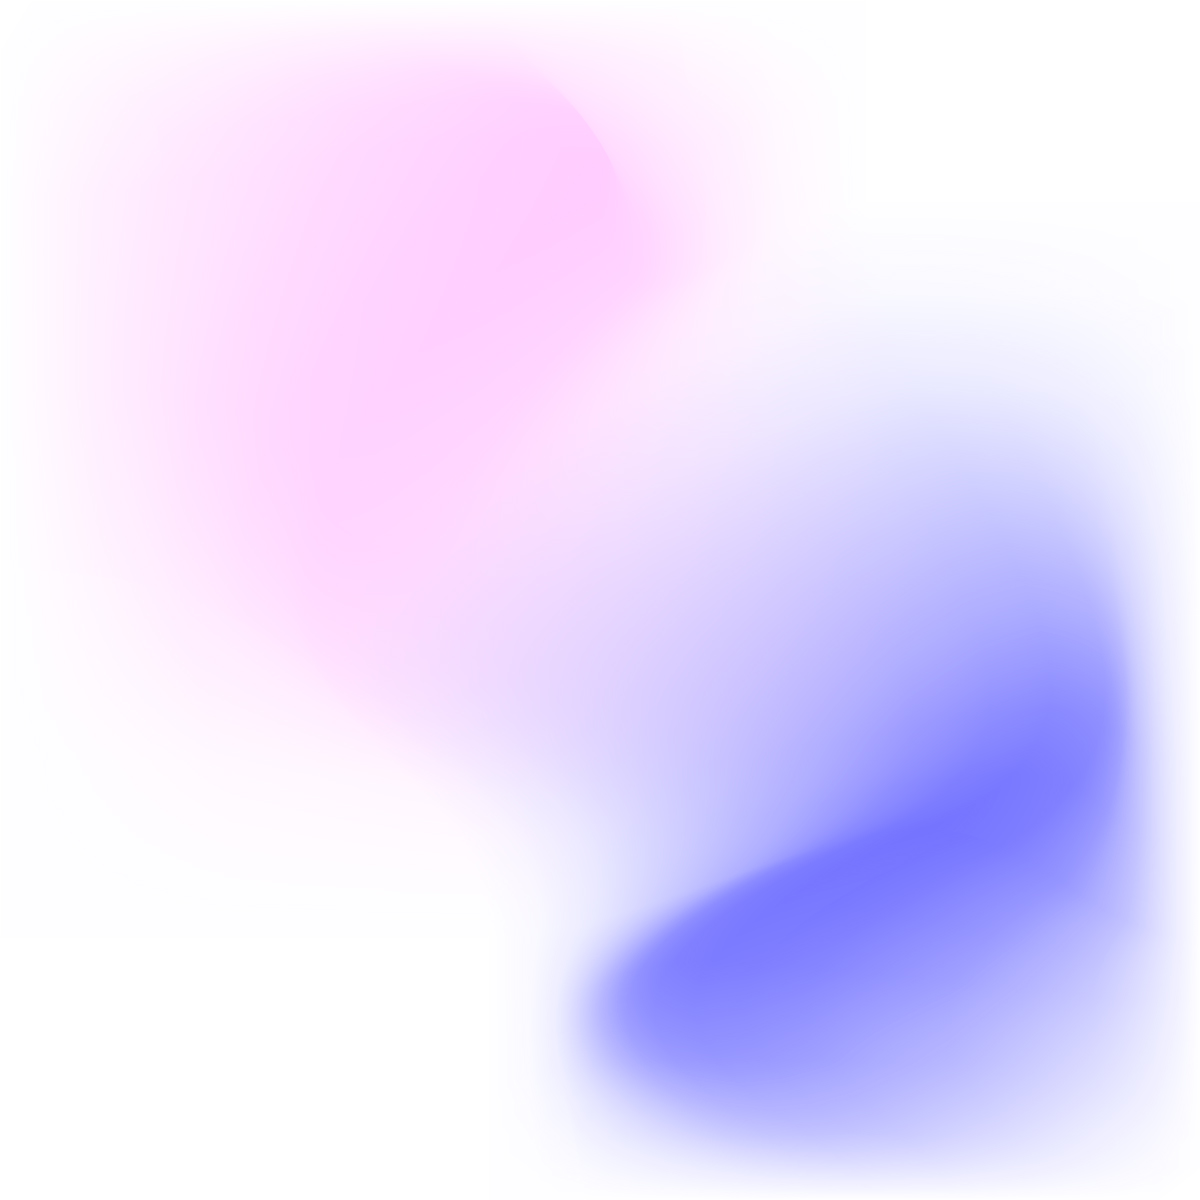
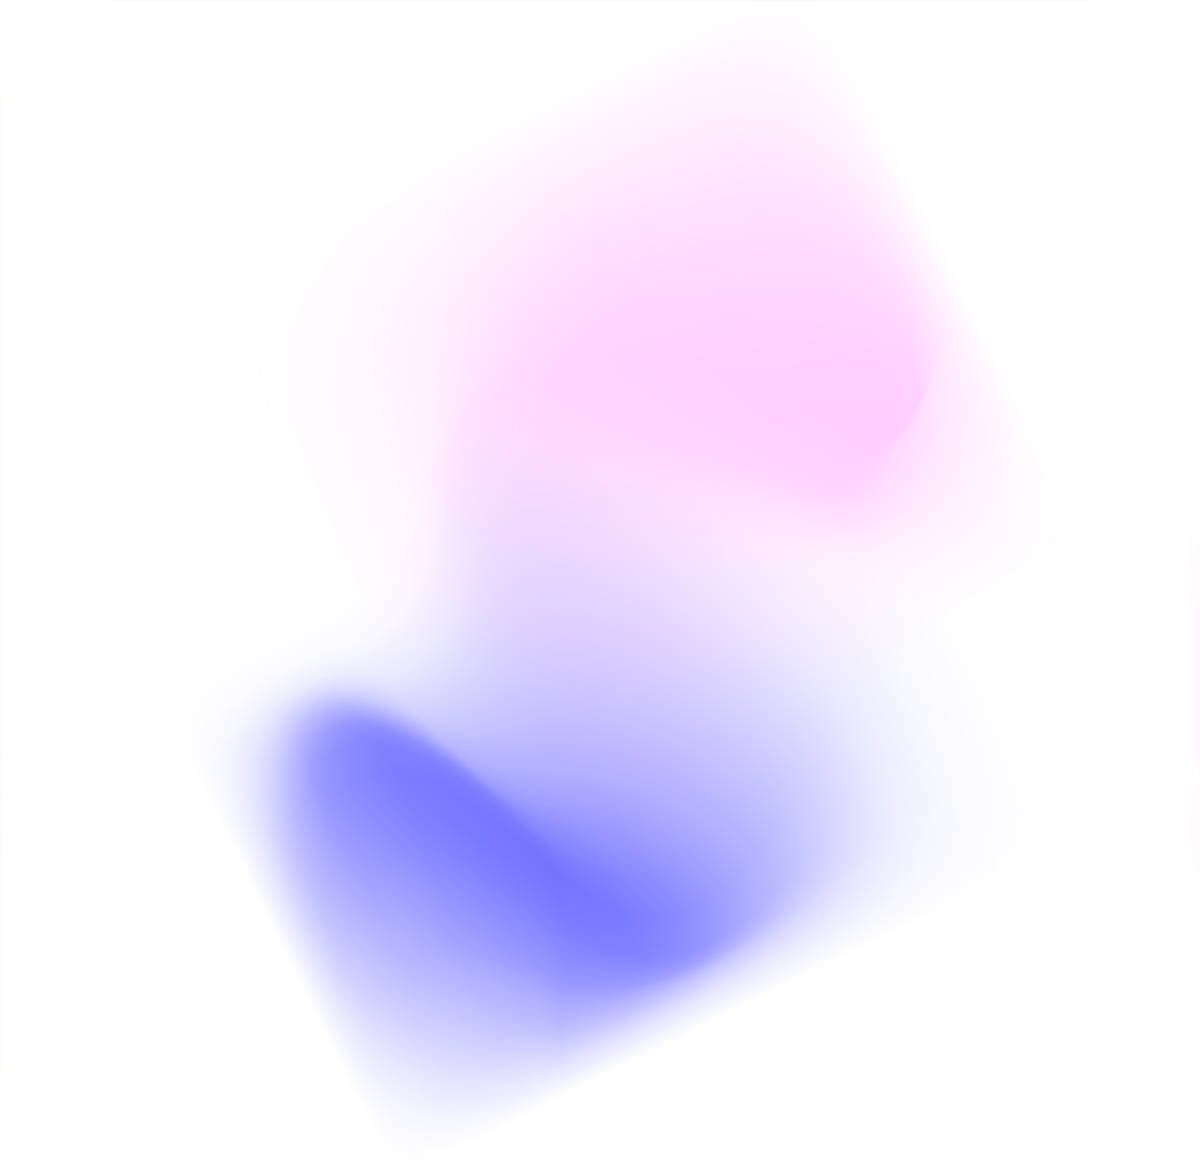
블로그 화면 디자인 수정 중

diff --git a/src/pages/blog/index.tsx b/src/pages/blog/index.tsx
@@ -6,6 +6,8 @@ import { colors } from "styles/colors";
 import LeftContainer from "./LeftContainer";
 import RightContainer from "./RightContainer";
 import blog_bg from "images/blog-bg.jpg";
+import blog_bg2 from "images/blog-bg2.jpg";
+import blog_bg3 from "images/blog-bg3.jpg";
 
 interface BlogScreen {}
 
@@ -13,8 +15,14 @@ export default function BlogScreen() {
   return (
     <S.Body>
       <S.bg>
-        <Image src={blog_bg} width={1000} height={1000} />
+        <Image src={blog_bg} width={800} height={800} />
       </S.bg>
+      <S.bg2>
+        <Image src={blog_bg2} width={400} height={400} />
+      </S.bg2>
+      <S.bg3>
+        <Image src={blog_bg3} width={400} height={400} />
+      </S.bg3>
       <LeftContainer />
       <RightContainer />
     </S.Body>
@@ -33,6 +41,21 @@ S.Body = styled(Sv)`
 
 S.bg = styled(Sv)`
   position: absolute;
+  opacity: 0.6;
   top: 10%;
-  right: 4%;
+  right: -15%;
+`;
+
+S.bg2 = styled(Sv)`
+  position: absolute;
+  opacity: 0.2;
+  top: 10%;
+  right: 30%;
+`;
+
+S.bg3 = styled(Sv)`
+  position: absolute;
+  opacity: 0.2;
+  bottom: 10%;
+  left: 2%;
 `;

diff --git a/src/pages/blog/LeftContainer.tsx b/src/pages/blog/LeftContainer.tsx
@@ -75,9 +75,10 @@ const S: any = {};
 
 S.Container = styled(Sv)`
   width: 1024px;
-  border-left: 1px solid ${colors.g4};
-  border-right: 1px solid ${colors.g4};
+  border-left: 1px solid rgba(0, 0, 0, 0.05);
+  border-right: 1px solid rgba(0, 0, 0, 0.05);
   padding-left: 120px;
   padding-right: 120px;
   z-index: 1;
+  background-color: rgba(255, 255, 255, 0.5);
 `;

diff --git a/src/pages/blog/RightContainer.tsx b/src/pages/blog/RightContainer.tsx
@@ -26,5 +26,8 @@ const S: any = {};
 S.Container = styled(Sv)`
   width: 512px;
   padding-left: 40px;
+  padding-right: 40px;
   z-index: 1;
+  background-color: rgba(255, 255, 255, 0.5);
+  border-right: 1px solid rgba(0, 0, 0, 0.05);
 `;
